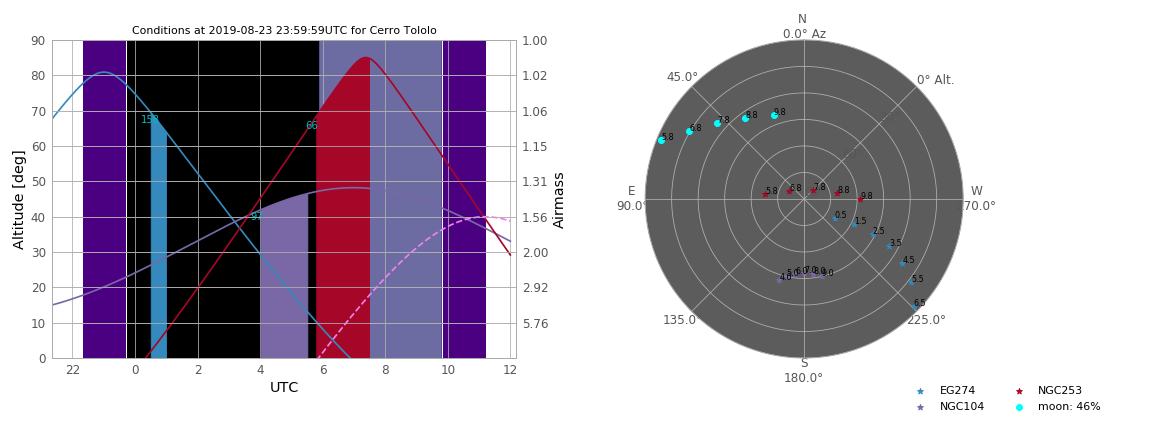
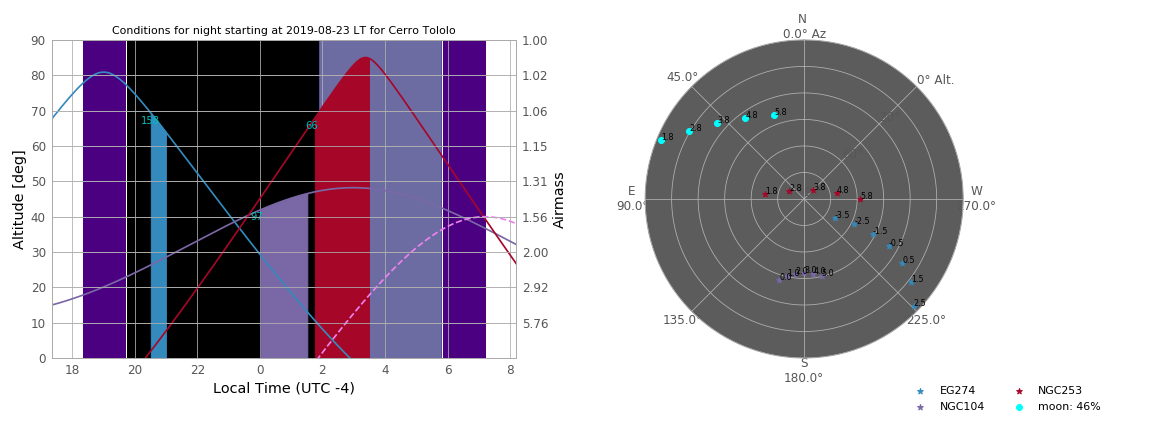
fixing some issues with time definition

diff --git a/skywalker.py b/skywalker.py
@@ -10,6 +10,8 @@ from astropy.coordinates import SkyCoord, EarthLocation, AltAz, get_moon, get_su
 import sys, os
 import datetime
 from astropy.io import ascii
+import pytz
+from tzwhere import tzwhere
 import warnings
 from myastroplan.plots import plot_sky
 from myastroplan import Observer
@@ -53,7 +55,7 @@ def print_help():
     --at                    [hh:mm:ss] shows moon brigthness and angular distance
                             to object at the specified hour. This value is also used
                             to start the observation block for an especified object
-                            when defined.
+                            when defined. Must be Local Time
     --astrotime             show the total number of astronomical hours of the night
 
     --object                [string] to entry a known object by name. It will look at the
@@ -459,14 +461,23 @@ if '--observatory' in sys.argv:# if site is provided
             sitename = 'LAT%.1f_LON%.1f' % (mylat, mylon)
     elif sitename in EarthLocation.get_site_names():
         mysite = EarthLocation.of_site(sitename)
+    tzwhere = tzwhere.tzwhere()
+    timezone_str = tzwhere.tzNameAt(mysite.lat.value, mysite.lon.value)
+    timezone = pytz.timezone(timezone_str)
     dt = datetime.datetime(int(night_starts.split('-')[0]),
                            int(night_starts.split('-')[1]),
                            int(night_starts.split('-')[2]),
                            0, 0, 0, 0)
     # only UTC is implemented
-    utcoffset = 0*u.hour
-    xlabel = 'UTC'
-    tlabel = 'UTC'
+    utcoffset = (timezone.utcoffset(dt).seconds/3600 - 24)*u.hour
+    if (utcoffset.value < 0) & (utcoffset.value >= -12):
+        xlabel = 'Local Time (UTC %i)' % utcoffset.value
+    else:
+        xlabel = 'Local Time (UTC + %i)' % (utcoffset.value + 24)
+    tlabel = 'LT'
+    #utcoffset = 0*u.hour
+    #xlabel = 'UTC'
+    #tlabel = 'UTC'
     if '--minalt' in sys.argv:
         index = np.arange(len(sys.argv))[np.array(sys.argv) == '--minalt']
         minalt = np.float(np.array(sys.argv)[index + 1].item())
@@ -478,22 +489,50 @@ elif '--sitefile' in sys.argv:# if file containing site info is given
     sitefile = ascii.read(sitefilename)
     sitename = sitefile['NAME'][0]
     mysite = EarthLocation(lat=sitefile['LAT'][0], lon=sitefile['LON'][0], height=sitefile['HEIGHT'][0])
-    utcoffset = 0*u.hour
-    xlabel = 'UTC'
-    tlabel = 'UTC'
+    #utcoffset = 0*u.hour
+    #xlabel = 'UTC'
+    #tlabel = 'UTC'
     if '--minalt' in sys.argv:
         index = np.arange(len(sys.argv))[np.array(sys.argv) == '--minalt']
         minalt = np.float(np.array(sys.argv)[index + 1].item())
     else:
         minalt = 0
+    tzwhere = tzwhere.tzwhere()
+    timezone_str = tzwhere.tzNameAt(mysite.lat.value, mysite.lon.value)
+    timezone = pytz.timezone(timezone_str)
+    dt = datetime.datetime(int(night_starts.split('-')[0]),
+                           int(night_starts.split('-')[1]),
+                           int(night_starts.split('-')[2]),
+                           0, 0, 0, 0)
+    # only Local Time is implemented
+    utcoffset = (timezone.utcoffset(dt).seconds/3600 - 24)*u.hour
+    if (utcoffset.value < 0) & (utcoffset.value >= -12):
+        xlabel = 'Local Time (UTC %i)' % utcoffset.value
+    else:
+        xlabel = 'Local Time (UTC + %i)' % (utcoffset.value + 24)
+    tlabel = 'LT'
 else:# the default is the Cerro Tololo Observatory, with some specs used by the S-PLUS-T80S team
     warnings.warn('Observatory not identified. Using default T80S at Cerro Tololo')
     sitename = 'T80-South'
     mysite = EarthLocation(lat=-30.2*u.deg, lon=-70.8*u.deg, height=2200*u.m)
-    utcoffset = 0*u.hour
-    xlabel = 'UTC'
-    tlabel = 'UTC'
+    #utcoffset = 0*u.hour
+    #xlabel = 'UTC'
+    #tlabel = 'UTC'
     minalt = 30
+    tzwhere = tzwhere.tzwhere()
+    timezone_str = tzwhere.tzNameAt(mysite.lat.value, mysite.lon.value)
+    timezone = pytz.timezone(timezone_str)
+    dt = datetime.datetime(int(night_starts.split('-')[0]),
+                           int(night_starts.split('-')[1]),
+                           int(night_starts.split('-')[2]),
+                           0, 0, 0, 0)
+    # only Local Time is implemented
+    utcoffset = (timezone.utcoffset(dt).seconds/3600 - 24)*u.hour
+    if (utcoffset.value < 0) & (utcoffset.value >= -12):
+        xlabel = 'Local Time (UTC %i)' % utcoffset.value
+    else:
+        xlabel = 'Local Time (UTC + %i)' % (utcoffset.value + 24)
+    tlabel = 'LT'
 
 night_for_chart = night_starts
 # define the time to calculate the distance to the moon and to start the
@@ -501,12 +540,14 @@ night_for_chart = night_starts
 if '--at' in sys.argv:
     index = np.arange(len(sys.argv))[np.array(sys.argv) == '--at']
     inithour = np.array(sys.argv)[index + 1].item()
+    if inithour >= '24':
+        raise IOError('wrong initial hour %s' % inithour)
     inithour, night_starts = standard_hour(inithour, night_starts, night_ends)
 else:
     inithour = '23:59:59'
 
 time = Time('%s %s' % (night_starts, inithour)) - utcoffset
-titlenight = time.value[:-4] + tlabel
+titlenight = 'Conditions at ' + (time + utcoffset).value[:-4] + ' LT for ' + sitename
 midnight = Time('%s 00:00:00' % night_ends) - utcoffset
 delta_midnight = np.linspace(-12, 12, 500)*u.hour
 frame_tonight = AltAz(obstime=midnight+delta_midnight,
@@ -526,8 +567,8 @@ moon_time_overnight = get_moon(times_time_overnight)
 moonaltazs_time_overnight = moon_time_overnight.transform_to(frame_time_overnight)
 
 # moon phase
-sun_pos = get_sun(time)
-moon_pos = get_moon(time)
+sun_pos = get_sun(time+utcoffset)
+moon_pos = get_moon(time+utcoffset)
 elongation = sun_pos.separation(moon_pos)
 moon_phase = np.arctan2(sun_pos.distance*np.sin(elongation),
                         moon_pos.distance - sun_pos.distance*np.cos(elongation))
@@ -568,7 +609,8 @@ for myObj in myListObj:
 
     inivalue = obj_dec_inhour
     endvalue = delta_midnight[sunaltazs_time_overnight.alt < -18*u.deg].max().value
-    observe_time = Time('%s 23:59:59.9' % night_for_chart) + np.arange(inivalue, endvalue, 1)*u.hour
+    #observe_time = Time('%s 23:59:59.9' % night_for_chart) + np.arange(inivalue, endvalue, 1)*u.hour
+    observe_time = time + np.arange(inivalue, endvalue, 1)*u.hour
 
     myaltaz = mycoords.transform_to(AltAz(obstime=objtime, location=mysite))
 
@@ -578,6 +620,7 @@ for myObj in myListObj:
 
     if isList:# if list
         p = ax1.plot(delta_midnight, myaltazs_time_overnight.alt, label=myObj[0])
+        titlenight = 'Conditions for night starting at ' + (time + utcoffset).value[:10] + ' LT for ' + sitename
         if '--skychart' in sys.argv:
             skychart(ax3, mysite, mycoords, time, observe_time,
                      sunaltazs_time_overnight, obj_style={'color': p[0].get_color(),
@@ -604,8 +647,8 @@ for myObj in myListObj:
                              (delta_midnight.value >= dec_inhour) & (delta_midnight.value <= (dec_inhour + blocktime / 3600.)),
                              color='y')
         if '--skychart' in sys.argv:
-            skychart(ax3, mysite, mycoords, time, observe_time,
-                     sunaltazs_time_overnight, obj_style={'cmap': 'inferno',
+            skychart(ax3, mysite, mycoords, time+utcoffset, observe_time,
+                     sunaltazs_time_overnight, obj_style={'cmap': 'viridis',
                                                           'marker': '*',
                                                           'c': np.arange(inivalue, endvalue, 1),
                                                           'label': myObj[0]}, hours_value=np.arange(inivalue, endvalue, 1))
@@ -692,7 +735,7 @@ xt = ax1.get_xticks()
 xt[xt < 0] += 24
 ax1.set_xticklabels(['%i' % n for n in xt])
 ax1.set_ylabel('Altitude [deg]')
-ax1.set_title('Conditions at %s for %s' % (titlenight, sitename), fontsize=11)
+ax1.set_title(titlenight, fontsize=11)
 
 ax2 = ax1.twinx()
 altitude = ax1.get_yticks()*u.deg

diff --git a/README.rst b/README.rst
@@ -19,11 +19,11 @@ Requisites
 
 python 2.7 (not tested with python 3)
 
-numpy  
-matplotlib  
-astropy  
-datetime  
-warnings
+``numpy``   
+``matplotlib``   
+``astropy``   
+``datetime``   
+``warnings``
 
 This code uses a modified version of the Astroplan code (https://astroplan.readthedocs.io/en/latest/), dubbed here myastroplan. All the modified code is included in this repository. If you use this code in your research, please cite accordingly (see https://github.com/astropy/astroplan for the full reference provided by the authors).
 
@@ -32,19 +32,19 @@ Examples
 
 * Showing the track for NGC104 for Cerro Tololo and its distance to the Moon at 3 UTC
 
-``python skywalker.py --object NGC104 --observatory 'Cerro Tololo' -ns 2019-08-23 --at 3 --savechart test01``
+``python skywalker.py --object NGC104 --observatory 'Cerro Tololo' -ns 2019-08-23 --at 0:30:00 --savechart test01``
 
 .. image:: figs/test01_2019-08-23_plan.png
 
 * Showing the skychart for the same track
 
-``python skywalker.py --object NGC104 --observatory 'Cerro Tololo' -ns 2019-08-23 --at 3 --skychart --savechart test02``
+``python skywalker.py --object NGC104 --observatory 'Cerro Tololo' -ns 2019-08-23 --at 0:30:00 --skychart --savechart test02``
 
 .. image:: figs/test02_2019-08-23_plan.png
    
 * Adding an observing block starting at 3 UTC for NGC104 at Cerro Tololo
 
-``python skywalker.py --object NGC104 --observatory 'Cerro Tololo' -ns 2019-08-23 --at 3 --blocktime 3851 --skychart --savechart test03``
+``python skywalker.py --object NGC104 --observatory 'Cerro Tololo' -ns 2019-08-23 --at 0:30:00 --blocktime 3851 --skychart --savechart test03``
 
 .. image:: figs/test03_2019-08-23_plan.png
 
